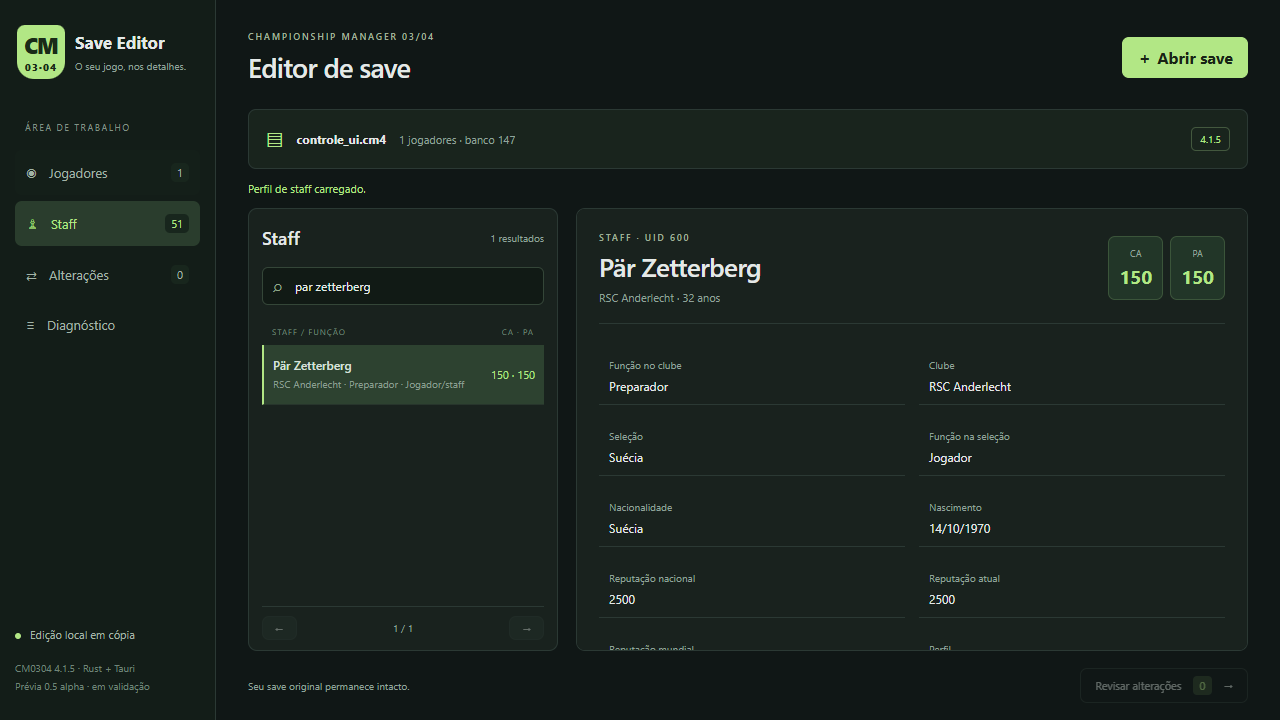
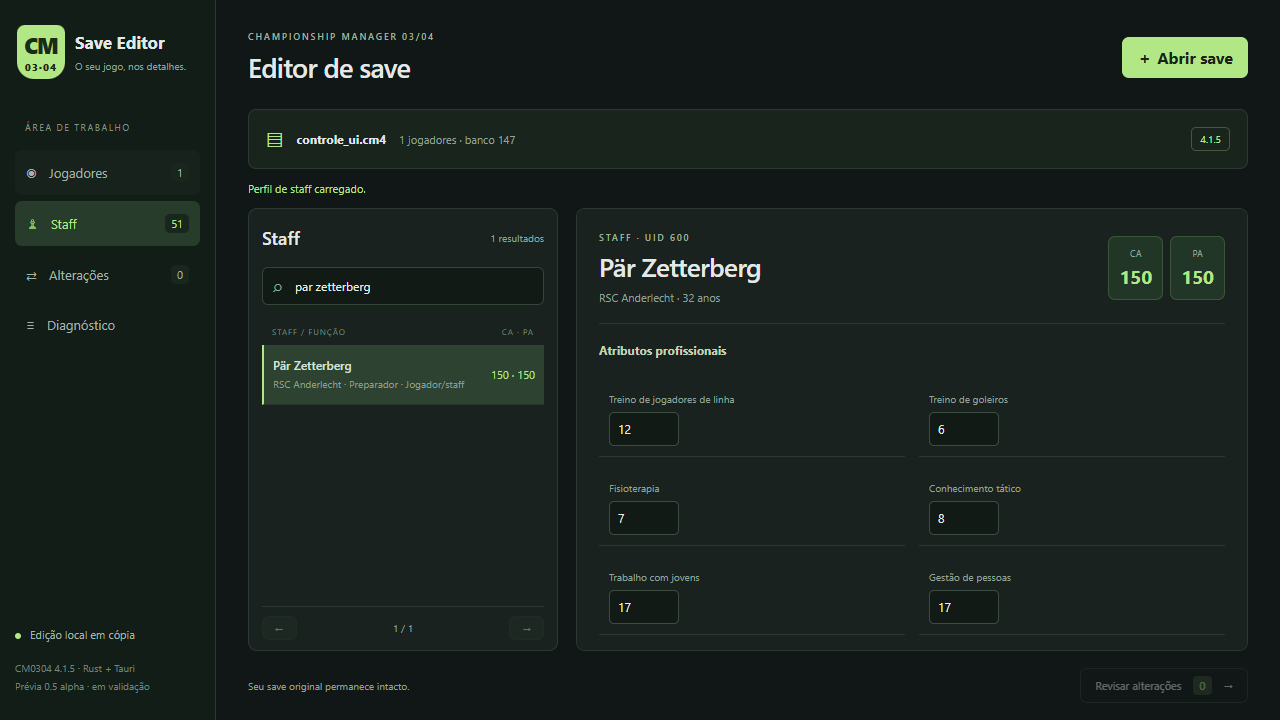
Integrate staff editing with desktop review and history

diff --git a/apps/desktop/ui/main.ts b/apps/desktop/ui/main.ts
@@ -1,15 +1,15 @@
 interface Edit {uid:number;attribute:string;value:number;policy?:'preserveValues'|'preserveRelative'}
-interface Pending {edits:Edit[];healInjuries:number[];clearSuspensions:number[];undo:boolean;redo:boolean}
+interface Pending {edits:Edit[];staffEdits?:Edit[];healInjuries:number[];clearSuspensions:number[];undo:boolean;redo:boolean}
 interface Field {value:number;min:number;max:number;width:number;offset:number}
 interface Player {uid:number;name:string;firstName:string;surname:string;club:string|null;nation:string|null;currentAbility:number;potentialAbility:number;attributes:Record<string,number>;rawAttributes:Record<string,number>;fields:Record<string,Field>}
 interface ContractView {index:number;kind:number;kindLabel:string;entityType:number;entity:string|null;started:{year:number;day:number};monthly:boolean}
 interface Detail {player:Player;effective:Player;age:number|null;contracts:ContractView[];editable:string[];pending:Edit[];nations:string[];injuries:{name:string;recordedOn:{year:number;day:number}|null}[];healPending:boolean;suspensionCount:number;suspensionPending:boolean}
 interface Change {uid:number;name:string;attribute:string;before:number;after:number;rawBefore:number;rawAfter:number;derived:boolean;context:string|null;displayBefore:string|null;displayAfter:string|null}
-interface Report {changes:Change[];fieldChangedBytes:number;removedBytes:number;removals:{uid:number;name:string;kind:'injuries'|'suspensions';count:number;removedBytes:number}[];sourceSha256:string;copySha256:string}
+interface Report {staffChanges?:{uid:number;name?:string;attribute:string;before:number;after:number}[];changes:Change[];fieldChangedBytes:number;removedBytes:number;removals:{uid:number;name:string;kind:'injuries'|'suspensions';count:number;removedBytes:number}[];sourceSha256:string;copySha256:string}
 interface Page {total:number;rows:{uid:number;name:string;club:string|null;age:number|null;ca:number;pa:number}[]}
 interface Summary {name:string;path:string;players:number;staff:number;sha256:string}
 interface StaffProfile {uid:number;name:string;isPlayer:boolean;isHuman:boolean;team:string|null;clubJob:string;nationalTeam:string|null;nationalJob:string;nation:string|null;dateOfBirth:{year:number;day:number}|null;currentAbility:number;potentialAbility:number;reputation:number[];rawAttributes:Record<string,number>|null;attributes:Record<string,number>|null;personality:Record<string,number>|null}
-interface StaffDetail {profile:StaffProfile;age:number|null;pendingPlayerFields:number}
+interface StaffDetail {profile:StaffProfile;age:number|null;pendingPlayerFields:number;editable?:string[]}
 interface StaffPage {total:number;rows:{uid:number;name:string;team:string|null;role:string;nationalTeam:string|null;age:number|null;ca:number;pa:number;isPlayer:boolean}[]}
 declare global {interface Window {__TAURI__:{core:{invoke:<T>(command:string,args?:Record<string,unknown>)=>Promise<T>}}}}
 const $=<T extends HTMLElement=HTMLElement>(id:string)=>document.getElementById(id) as T;
@@ -47,8 +47,9 @@ function drafts():Edit[]{
 }
 function healingDraft():{uid:number;enabled:boolean}|null {const checkbox=$<HTMLInputElement>('remove-injuries');return detail&&checkbox&&checkbox.checked!==detail.healPending?{uid:detail.player.uid,enabled:checkbox.checked}:null;}
 function suspensionDraft():{uid:number;enabled:boolean}|null {const checkbox=$<HTMLInputElement>('remove-suspensions');return detail&&checkbox&&checkbox.checked!==detail.suspensionPending?{uid:detail.player.uid,enabled:checkbox.checked}:null;}
-function planCount(){return plan.edits.length+plan.healInjuries.length+plan.clearSuspensions.length;}
-function canLeave(){return (drafts().length===0&&!healingDraft()&&!suspensionDraft())||window.confirm('Descartar os campos ainda não adicionados à revisão?');}
+function staffDrafts():Edit[]{return staffDetail?Array.from(document.querySelectorAll<HTMLInputElement>('#staff-profile [data-staff-field]')).filter(el=>Number(el.value)!==Number(el.dataset.initial)).map(el=>({uid:staffDetail!.profile.uid,attribute:el.dataset.staffField!,value:Number(el.value)})):[];}
+function planCount(){return plan.edits.length+(plan.staffEdits?.length??0)+plan.healInjuries.length+plan.clearSuspensions.length;}
+function canLeave(){const clean=staffDrafts().length===0;const allowed=(clean&&drafts().length===0&&!healingDraft()&&!suspensionDraft())||window.confirm('Descartar os campos ainda não adicionados à revisão?');if(allowed&&!clean)for(const el of document.querySelectorAll<HTMLInputElement>('#staff-profile [data-staff-field]'))el.value=el.dataset.initial!;return allowed;}
 function view(name:string){for(const v of ['players','staff','changes','diagnostics']){$(`${v}-view`).hidden=v!==name;$(`nav-${v}`).classList.toggle('active',v===name);}}
 function syncPlan(){const count=planCount();$('pending-count').textContent=String(count);$('review-count').textContent=String(count);$<HTMLButtonElement>('review').disabled=busy||!count;$<HTMLButtonElement>('save-copy').disabled=busy||!count;$<HTMLButtonElement>('undo').disabled=busy||!plan.undo;$<HTMLButtonElement>('redo').disabled=busy||!plan.redo;$<HTMLButtonElement>('clear').disabled=busy||!count;$('footer-state').textContent=count?`${count} alteração(ões) preparada(s). A origem continua intacta.`:'Seu save original permanece intacto.';}
 function syncPages(){$<HTMLButtonElement>('previous').disabled=busy||page===0;$<HTMLButtonElement>('next').disabled=busy||(page+1)*50>=total;$('page-label').textContent=`${page+1} / ${Math.max(1,Math.ceil(total/50))}`;}
@@ -80,18 +81,20 @@ async function searchStaff(){
   $('staff-results').innerHTML=result.rows.map(p=>'<button class="player-row '+(staffDetail?.profile.uid===p.uid?'selected':'')+'" data-staff-uid="'+p.uid+'"><span><strong>'+escape(p.name)+'</strong><small>'+escape(p.team??p.nationalTeam??'Sem equipe')+' · '+escape(p.role)+(p.isPlayer?' · Jogador/staff':'')+'</small></span><span class="abilities">'+p.ca+' <span>·</span> '+p.pa+'</span></button>').join('')||'<p class="profile-meta">Nenhum membro do staff encontrado.</p>';
   syncStaffPages();
 }
-async function showStaff(uid:number){
+async function showStaff(uid:number,checkDraft=true){
+  if(checkDraft&&!canLeave())return;
   status('Carregando perfil de staff…');
   staffDetail=await invoke<StaffDetail>('staff_detail',{uid});
   const d=staffDetail,p=d.profile;
   const fact=(label:string,value:unknown)=>'<div><dt>'+escape(label)+'</dt><dd>'+escape(value??'—')+'</dd></div>';
   const birth=p.dateOfBirth&&d.age!==null?new Date(Date.UTC(p.dateOfBirth.year,0,1)+p.dateOfBirth.day*86400000).toLocaleDateString('pt-BR',{timeZone:'UTC'}):'—';
   const professional:[string,string][]=[['Treino de jogadores de linha','coachingOutfieldPlayers'],['Treino de goleiros','coachingGoalkeepers'],['Fisioterapia','physiotherapy'],['Conhecimento tático','tacticalKnowledge'],['Trabalho com jovens','workingWithYoungsters'],['Gestão de pessoas','manManagement'],['Avaliação de capacidade','judgingPlayerAbility'],['Avaliação de potencial','judgingPlayerPotential'],['Motivação','motivating'],['Disciplina','discipline'],['Determinação','determination']];
-  const ratings='<h3 class="tab-heading">Atributos profissionais</h3><dl class="staff-facts staff-ratings">'+professional.map(([label,key])=>fact(label,p.attributes?.[key])).join('')+fact('Adaptação',p.personality?.adaptability)+'</dl>';
-  $('staff-profile').innerHTML='<div class="profile-header"><div><div class="eyebrow">STAFF · UID '+p.uid+'</div><h2>'+escape(p.name)+'</h2><div class="profile-meta">'+escape(p.team??p.nationalTeam??'Sem equipe')+(d.age===null?'':' · '+d.age+' anos')+'</div></div><div class="profile-badges"><div class="ability-badge"><small>CA</small><strong>'+p.currentAbility+'</strong></div><div class="ability-badge"><small>PA</small><strong>'+p.potentialAbility+'</strong></div></div></div>'+ratings+'<dl class="staff-facts">'+fact('Função no clube',p.clubJob)+fact('Clube',p.team)+fact('Seleção',p.nationalTeam)+fact('Função na seleção',p.nationalJob)+fact('Nacionalidade',p.nation)+fact('Nascimento',birth)+fact('Reputação nacional',p.reputation[0])+fact('Reputação atual',p.reputation[1])+fact('Reputação mundial',p.reputation[2])+fact('Perfil',p.isHuman?'Treinador humano':p.isPlayer?'Jogador/staff':'Staff')+'</dl><p class="profile-meta">CA e PA pertencem à função de staff. A edição de staff ainda está em desenvolvimento.</p>'+(d.pendingPlayerFields?'<p class="profile-meta">Este jogador tem '+d.pendingPlayerFields+' campo(s) na revisão. Os dados compartilhados deste perfil refletem o plano.</p>':'')+(p.isPlayer?'<button type="button" id="staff-open-player">Abrir perfil de jogador →</button>':'')+'<details><summary>Atributos brutos de diagnóstico</summary><p>Bytes originais, anteriores à conversão dos atributos relativos.</p><pre>'+escape(JSON.stringify(p.rawAttributes,null,2))+'</pre></details>';
+  const ratings='<h3 class="tab-heading">Atributos profissionais</h3><dl class="staff-facts staff-ratings">'+professional.map(([label,key])=>d.editable?.includes(key)?'<div><dt><label for="staff-'+key+'">'+escape(label)+'</label></dt><dd><input id="staff-'+key+'" type="number" min="1" max="20" step="1" data-staff-field="'+key+'" data-initial="'+p.attributes?.[key]+'" value="'+p.attributes?.[key]+'"></dd></div>':fact(label,p.attributes?.[key])).join('')+fact('Adaptação',p.personality?.adaptability)+'</dl>'+(d.editable?.length?'<p class="profile-meta">Edição experimental: valide a cópia no jogo.</p><button id="staff-stage" type="button">Adicionar à revisão</button>':'');
+  $('staff-profile').innerHTML='<div class="profile-header"><div><div class="eyebrow">STAFF · UID '+p.uid+'</div><h2>'+escape(p.name)+'</h2><div class="profile-meta">'+escape(p.team??p.nationalTeam??'Sem equipe')+(d.age===null?'':' · '+d.age+' anos')+'</div></div><div class="profile-badges"><div class="ability-badge"><small>CA</small><strong>'+p.currentAbility+'</strong></div><div class="ability-badge"><small>PA</small><strong>'+p.potentialAbility+'</strong></div></div></div>'+ratings+'<dl class="staff-facts">'+fact('Função no clube',p.clubJob)+fact('Clube',p.team)+fact('Seleção',p.nationalTeam)+fact('Função na seleção',p.nationalJob)+fact('Nacionalidade',p.nation)+fact('Nascimento',birth)+fact('Reputação nacional',p.reputation[0])+fact('Reputação atual',p.reputation[1])+fact('Reputação mundial',p.reputation[2])+fact('Perfil',p.isHuman?'Treinador humano':p.isPlayer?'Jogador/staff':'Staff')+'</dl><p class="profile-meta">CA e PA pertencem à função de staff. A edição de CA/PA e dos demais dados ainda está em desenvolvimento.</p>'+(d.pendingPlayerFields?'<p class="profile-meta">Este jogador tem '+d.pendingPlayerFields+' campo(s) na revisão. Os dados compartilhados deste perfil refletem o plano.</p>':'')+(p.isPlayer?'<button type="button" id="staff-open-player">Abrir perfil de jogador →</button>':'')+'<details><summary>Atributos brutos de diagnóstico</summary><p>Bytes originais, anteriores à conversão dos atributos relativos.</p><pre>'+escape(JSON.stringify(p.rawAttributes,null,2))+'</pre></details>';
   $('staff-profile').scrollTop=0;
   for(const row of document.querySelectorAll<HTMLElement>('[data-staff-uid]'))row.classList.toggle('selected',Number(row.dataset.staffUid)===uid);
-  if(p.isPlayer)$('staff-open-player').onclick=()=>void task(async()=>{view('players');page=0;$<HTMLInputElement>('search').value=p.name;await search();await showPlayer(uid);});
+  if(d.editable?.length)$('staff-stage').onclick=()=>void task(async()=>{const edits=staffDrafts();for(const el of document.querySelectorAll<HTMLInputElement>('#staff-profile [data-staff-field]'))if(Number(el.value)!==Number(el.dataset.initial)&&!el.reportValidity())return;if(!edits.length)return;status('Validando atributos de staff…');plan=await invoke<Pending>('stage_staff_edits',{edits});await showStaff(uid,false);status('Atributos de staff adicionados à revisão.','success');});
+  if(p.isPlayer)$('staff-open-player').onclick=()=>void task(async()=>{if(!canLeave())return;view('players');page=0;$<HTMLInputElement>('search').value=p.name;await search();await showPlayer(uid);});
   status('Perfil de staff carregado.','success');
 }
 function renderProfile(){
@@ -165,21 +168,22 @@ function renderProfile(){
 }
 async function showPlayer(uid:number){if(!canLeave())return;detail=await invoke<Detail>('player_detail',{uid});renderProfile();for(const row of document.querySelectorAll<HTMLElement>('.player-row'))row.classList.toggle('selected',Number(row.dataset.uid)===uid);}
 async function open(){if(!canLeave())return;if(planCount()&&!window.confirm('Abrir outro save e descartar as alterações pendentes?'))return;await task(async()=>{status('Selecione o save. A leitura pode levar alguns segundos…');const data=await invoke<Summary|null>('open_save');if(!data){status('Abertura cancelada.');return;}summary=data;detail=null;resetStaff();plan={edits:[],healInjuries:[],clearSuspensions:[],undo:false,redo:false};page=0;$<HTMLInputElement>('search').value='';$('file-name').textContent=data.name;$('file-info').textContent=`${data.players.toLocaleString('pt-BR')} jogadores · banco 147`;$('file-name').title=data.path;$('player-count').textContent=data.players.toLocaleString('pt-BR');$('diagnostics').textContent=JSON.stringify(data,null,2);$('empty').hidden=true;$('workspace').hidden=false;$('profile').innerHTML='<div class="profile-placeholder"><h2>Escolha um jogador</h2><p>Use a busca para encontrar um nome ou elenco.</p></div>';view('players');await search();status('Save carregado. Selecione um jogador para começar.','success');});}
+function staffFieldLabel(key:string):string {const labels:Record<string,string>={coachingOutfieldPlayers:'Treino de jogadores de linha',coachingGoalkeepers:'Treino de goleiros',physiotherapy:'Fisioterapia',tacticalKnowledge:'Conhecimento tático',workingWithYoungsters:'Trabalho com jovens',manManagement:'Gestão de pessoas',judgingPlayerAbility:'Avaliação de capacidade',judgingPlayerPotential:'Avaliação de potencial',motivating:'Motivação',discipline:'Disciplina',determination:'Determinação'};return labels[key]??key;}
 function renderChanges(report:Report):string {
   const seen=new Set<string>();return report.changes.filter(c=>{
     if(c.attribute==='birth.day'||c.attribute==='birth.year'||/^contract\.\d+\.expires\.(day|year)$/.test(c.attribute)){
       const key=c.uid+':'+c.attribute.replace(/\.(day|year)$/,'');if(seen.has(key))return false;seen.add(key);
     }return true;
-  }).map(c=>'<div class="change-item"><strong>'+escape(c.name)+'</strong><span>'+escape((c.attribute.startsWith('birth.')?'Nascimento':fieldLabel(c.attribute))+(c.derived?' (efeito indireto)':''))+(c.context?'<small class="change-context">'+escape(c.context)+'</small>':'')+'</span><b>'+escape(c.displayBefore??c.before)+' → '+escape(c.displayAfter??c.after)+'</b></div>').join('')+report.removals.map(r=>'<div class="change-item"><strong>'+escape(r.name)+'</strong><span>'+ (r.kind==='suspensions'?'Remover suspensões registradas':'Remover lesões registradas')+'</span><b>'+r.count+' → 0</b></div>').join('');
+  }).map(c=>'<div class="change-item"><strong>'+escape(c.name)+'</strong><span>'+escape((c.attribute.startsWith('birth.')?'Nascimento':fieldLabel(c.attribute))+(c.derived?' (efeito indireto)':''))+(c.context?'<small class="change-context">'+escape(c.context)+'</small>':'')+'</span><b>'+escape(c.displayBefore??c.before)+' → '+escape(c.displayAfter??c.after)+'</b></div>').join('')+(report.staffChanges??[]).map(c=>'<div class="change-item"><strong>'+escape(c.name??('Staff · UID '+c.uid))+'</strong><span>'+escape(staffFieldLabel(c.attribute))+'</span><b>'+c.before+' → '+c.after+'</b></div>').join('')+report.removals.map(r=>'<div class="change-item"><strong>'+escape(r.name)+'</strong><span>'+ (r.kind==='suspensions'?'Remover suspensões registradas':'Remover lesões registradas')+'</span><b>'+r.count+' → 0</b></div>').join('');
 }
-function reportSummary(report:Report){const fields=report.changes.length,records=report.removals.reduce((sum,r)=>sum+r.count,0);return report.removals.length?`${fields} campo(s) editado(s) e ${records} registro(s) removido(s).`:`${fields} campo(s) e ${report.fieldChangedBytes} bytes alterados.`;}
+function reportSummary(report:Report){const fields=report.changes.length+(report.staffChanges?.length??0),records=report.removals.reduce((sum,r)=>sum+r.count,0);return report.removals.length?`${fields} campo(s) editado(s) e ${records} registro(s) removido(s).`:`${fields} campo(s) e ${report.fieldChangedBytes} bytes alterados.`;}
 async function review(){if(!summary||!canLeave())return;view('changes');await task(async()=>{plan=await invoke<Pending>('pending_edits');if(!planCount()){$('changes-list').textContent='Nenhuma alteração pendente.';return;}status('Validando o plano de edição…');const report=await invoke<Report>('preview_edits');$('changes-list').innerHTML=renderChanges(report);status('Plano válido: '+reportSummary(report),'success');});}
 $('open-save').onclick=()=>void open();$('empty-open').onclick=()=>void open();$('nav-players').onclick=()=>{if(summary&&canLeave())view('players');};$('nav-changes').onclick=()=>void review();$('review').onclick=()=>void review();$('nav-diagnostics').onclick=()=>{if(summary&&canLeave())view('diagnostics');};
 $('results').onclick=e=>{const row=(e.target as HTMLElement).closest<HTMLElement>('[data-uid]');if(row)void task(()=>showPlayer(Number(row.dataset.uid)));};
 $<HTMLInputElement>('search').oninput=()=>{clearTimeout(timer);timer=setTimeout(()=>{page=0;void search().catch(e=>status(String(e),'error'));},180);};
 $('previous').onclick=()=>{page--;void search().catch(e=>status(String(e),'error'));};$('next').onclick=()=>{page++;void search().catch(e=>status(String(e),'error'));};
-for(const action of ['undo','redo','clear'])$(action).onclick=()=>void task(async()=>{plan=await invoke<Pending>('history_action',{action});if(detail){detail=await invoke<Detail>('player_detail',{uid:detail.player.uid});renderProfile();}if(planCount()){const report=await invoke<Report>('preview_edits');$('changes-list').innerHTML=renderChanges(report);}else $('changes-list').textContent='Nenhuma alteração pendente.';status('Plano de alterações atualizado.');});
-$('save-copy').onclick=()=>void task(async()=>{status('Escolha um nome novo para a cópia. O original não será sobrescrito.');const result=await invoke<{path:string;report:Report}|null>('save_copy');if(!result){status('Gravação cancelada.');return;}$('saved-path').textContent=`Cópia validada e salva: ${result.path}`;status('Cópia salva e verificada: '+reportSummary(result.report),'success');});
+for(const action of ['undo','redo','clear'])$(action).onclick=()=>{if(!canLeave())return;void task(async()=>{plan=await invoke<Pending>('history_action',{action});if(detail){detail=await invoke<Detail>('player_detail',{uid:detail.player.uid});renderProfile();}if(planCount()){const report=await invoke<Report>('preview_edits');$('changes-list').innerHTML=renderChanges(report);}else $('changes-list').textContent='Nenhuma alteração pendente.';if(staffDetail)await showStaff(staffDetail.profile.uid,false);status('Plano de alterações atualizado.');});};
+$('save-copy').onclick=()=>{if(!canLeave())return;void task(async()=>{status('Escolha um nome novo para a cópia. O original não será sobrescrito.');const result=await invoke<{path:string;report:Report}|null>('save_copy');if(!result){status('Gravação cancelada.');return;}$('saved-path').textContent=`Cópia validada e salva: ${result.path}`;status('Cópia salva e verificada: '+reportSummary(result.report),'success');});};
 $('nav-staff').onclick=()=>{
   if(!summary||!canLeave())return;
   renderProfile();view('staff');
@@ -189,6 +193,6 @@ $('staff-results').onclick=e=>{const row=(e.target as HTMLElement).closest<HTMLE
 $<HTMLInputElement>('staff-search').oninput=()=>{clearTimeout(staffTimer);staffTimer=setTimeout(()=>{staffPage=0;void searchStaff().catch(e=>status(String(e),'error'));},180);};
 $('staff-previous').onclick=()=>{staffPage--;void searchStaff().catch(e=>status(String(e),'error'));};
 $('staff-next').onclick=()=>{staffPage++;void searchStaff().catch(e=>status(String(e),'error'));};
-window.onbeforeunload=e=>{if(planCount()||drafts().length||healingDraft()||suspensionDraft()){e.preventDefault();}};
+window.onbeforeunload=e=>{if(planCount()||staffDrafts().length||drafts().length||healingDraft()||suspensionDraft()){e.preventDefault();}};
 syncPlan();
 export {};

diff --git a/tools/check-staff-ui.playwright.js b/tools/check-staff-ui.playwright.js
@@ -18,6 +18,8 @@ async page => {
     const field = value => ({ value, min: 0, max: 2003, width: 2, offset: 0 });
     const player = { uid: 600, name: 'Pär Zetterberg', firstName: 'Pär', surname: 'Zetterberg', club: 'RSC Anderlecht', nation: 'Suécia', currentAbility: 140, potentialAbility: 150, attributes: {}, rawAttributes: {}, fields: { 'birth.year': field(1970), 'birth.day': field(286), nationality: field(0), passing: { ...field(15), min: 1, max: 20 } } };
     window.__testCalls = [];
+    let edits=[], undo=[], redo=[];
+    const pending=()=>({edits:[],staffEdits:edits,healInjuries:[],clearSuspensions:[],undo:undo.length>0,redo:redo.length>0});
     window.__TAURI__ = { core: { invoke: async (command, args = {}) => {
       window.__testCalls.push({ command, args });
       if (command === 'open_save') return { name: 'controle_ui.cm4', path: 'controle_ui.cm4', players: 1, staff: 51, sha256: 'controlled-fixture' };
@@ -26,7 +28,15 @@ async page => {
         const found = profiles.filter(p => key([p.uid, p.name, p.team, p.clubJob, p.nationalTeam, p.nationalJob].join(' ')).includes(key(args.query)));
         return { total: found.length, rows: found.slice(args.page * 50, args.page * 50 + 50).map(p => ({ uid: p.uid, name: p.name, team: p.team, role: p.clubJob, nationalTeam: p.nationalTeam, age: 43, ca: p.currentAbility, pa: p.potentialAbility, isPlayer: p.isPlayer })) };
       }
-      if (command === 'staff_detail') return { profile: profiles.find(p => p.uid === args.uid), age: args.uid === 600 ? 32 : 43, pendingPlayerFields: 0 };
+      if (command === 'staff_detail') {
+        const profile=structuredClone(profiles.find(p=>p.uid===args.uid));
+        for(const e of edits.filter(e=>e.uid===args.uid))profile.attributes[e.attribute]=e.value;
+        return {profile,age:args.uid===600?32:43,pendingPlayerFields:0,editable:Object.keys(profile.attributes)};
+      }
+      if(command==='stage_staff_edits'){undo.push(structuredClone(edits));redo=[];for(const e of args.edits){edits=edits.filter(x=>x.uid!==e.uid||x.attribute!==e.attribute);if(e.value!==profiles.find(p=>p.uid===e.uid).attributes[e.attribute])edits.push(e);}return pending();}
+      if(command==='pending_edits')return pending();
+      if(command==='history_action'){if(args.action==='undo'){redo.push(edits);edits=undo.pop();}else if(args.action==='redo'){undo.push(edits);edits=redo.pop();}else {undo.push(edits);edits=[];}return pending();}
+      if(command==='preview_edits')return {changes:[],staffChanges:edits.map(e=>({...e,before:profiles.find(p=>p.uid===e.uid).attributes[e.attribute],after:e.value})),removals:[],fieldChangedBytes:edits.length,removedBytes:0};
       if (command === 'player_detail') return { player, effective: player, age: 32, contracts: [], editable: ['passing'], pending: [], nations: ['Suécia'], injuries: [], healPending: false, suspensionCount: 0, suspensionPending: false };
       throw new Error('Unexpected IPC command: ' + command);
     } } };
@@ -49,8 +59,32 @@ async page => {
   await page.locator('#staff-results button').click();
   await page.locator('#staff-profile h2').filter({ hasText: 'Rui Águas' }).waitFor();
   assert((await page.locator('#staff-profile').innerText()).includes('Treinador adjunto'), 'Staff role must be visible');
-  assert(await page.locator('#staff-profile dt').filter({ hasText: 'Fisioterapia' }).locator('..').locator('dd').innerText() === '7', 'Staff ratings must show the converted value, not the raw byte');
-  assert(await page.locator('#staff-profile input').count() === 0, 'Unvalidated staff fields must not have editable inputs');
+  assert(await page.locator('#staff-physiotherapy').inputValue() === '7', 'Staff ratings must show the converted value, not the raw byte');
+  assert(await page.locator('#staff-profile input').count() === 11, 'Only the 11 professional fields may be editable');
+  await page.locator('#staff-coachingOutfieldPlayers').fill('20');
+  await page.locator('#staff-stage').click();
+  await page.locator('#status').filter({hasText:'Atributos de staff adicionados'}).waitFor();
+  assert(await page.locator('#pending-count').innerText()==='1','Staff edit must enable review and save');
+  await page.locator('#review').click();
+  await page.locator('#changes-list').filter({hasText:'12 → 20'}).waitFor();
+  assert((await page.locator('#changes-list').innerText()).includes('Treino de jogadores de linha'),'Review must label staff fields');
+  await page.locator('#undo').click();
+  await page.locator('#status').filter({hasText:'Plano de alterações atualizado'}).waitFor();
+  assert(await page.locator('#save-copy').isDisabled(),'Undo must remove the staff edit');
+  await page.locator('#redo').click();
+  await page.locator('#status').filter({hasText:'Plano de alterações atualizado'}).waitFor();
+  assert(await page.locator('#pending-count').innerText()==='1','Redo must restore the staff edit');
+  await page.locator('#clear').click();
+  await page.locator('#status').filter({hasText:'Plano de alterações atualizado'}).waitFor();
+  await page.locator('#nav-staff').click();
+  await page.locator('#staff-coachingOutfieldPlayers').fill('19');
+  page.once('dialog',dialog=>dialog.dismiss());
+  await page.locator('#nav-players').click();
+  assert(await page.locator('#staff-view').isVisible(),'Cancel must keep staff draft');
+  page.once('dialog',dialog=>dialog.accept());
+  await page.locator('#nav-players').click();
+  assert(await page.locator('#staff-coachingOutfieldPlayers').inputValue()==='12','Discard must reset staff draft');
+  await page.locator('#nav-staff').click();
   await page.locator('#staff-search').fill('fisioterapeuta');
   await page.locator('#staff-results button').filter({ hasText: 'Francisco Miranda' }).waitFor();
   await page.locator('#staff-search').fill('par zetterberg');
@@ -78,7 +112,7 @@ async page => {
   assert(await page.locator('#staff-search').inputValue() === '', 'Opening a save must reset staff query');
   assert(await page.locator('#staff-page-label').innerText() === '1 / 2', 'Opening a save must reset pagination');
   assert((await page.locator('#staff-profile').innerText()).includes('Escolha um membro do staff'), 'Opening a save must clear previous staff profile');
-  const result = { passed: true, checks: ['pagination', 'accentless search', 'role search', 'readonly staff', 'dual-role navigation', 'draft cancel/discard', 'save session reset'], frontendErrors: errors };
+  const result = { passed: true, checks: ['pagination', 'accentless search', 'role search', '11 staff controls', 'staff staging and review', 'staff undo/redo/clear', 'staff draft cancel/discard', 'dual-role navigation', 'player draft cancel/discard', 'save session reset'], frontendErrors: errors };
   await page.evaluate(value => { window.__staffUiResult = value; }, result);
   return result;
 }

diff --git a/apps/desktop/src-tauri/src/main.rs b/apps/desktop/src-tauri/src/main.rs
@@ -89,6 +89,7 @@ struct StaffDetail {
     profile: Staff,
     age: Option<u16>,
     pending_player_fields: usize,
+    editable: Vec<String>,
 }
 #[derive(Serialize)]
 #[serde(rename_all = "camelCase")]
@@ -109,6 +110,7 @@ struct Detail {
 #[serde(rename_all = "camelCase")]
 struct Pending {
     edits: Vec<Edit>,
+    staff_edits: Vec<cm0304_core::staff_editor::Edit>,
     heal_injuries: Vec<i32>,
     clear_suspensions: Vec<i32>,
     undo: bool,
@@ -117,6 +119,7 @@ struct Pending {
 fn pending(s: &Session) -> Pending {
     Pending {
         edits: s.plan.edits.clone(),
+        staff_edits: s.plan.staff_edits.clone(),
         heal_injuries: s.plan.heal_injuries.iter().copied().collect(),
         clear_suspensions: s.plan.clear_suspensions.iter().copied().collect(),
         undo: !s.undo.is_empty(),
@@ -294,7 +297,7 @@ async fn staff_detail(uid: i32, state: State<'_, Shared>) -> Result<StaffDetail>
         .ok_or("Staff não encontrado")?;
     let plan = state.lock().map_err(|e| e.to_string())?.plan.clone();
     let pending_player_fields = plan.edits.iter().filter(|e| e.uid == uid).count();
-    if pending_player_fields > 0 {
+    if pending_player_fields > 0 || plan.staff_edits.iter().any(|e| e.uid == uid) {
         let bytes = data.bytes.clone();
         profile = tauri::async_runtime::spawn_blocking(move || -> Result<Staff> {
             let (output, _) = transaction::apply(&bytes, &plan)?;
@@ -312,10 +315,71 @@ async fn staff_detail(uid: i32, state: State<'_, Shared>) -> Result<StaffDetail>
         .as_ref()
         .and_then(|date| date.age_on(&data.game_date));
     Ok(StaffDetail {
+        editable: if profile.attributes.is_some() {
+            cm0304_core::staff_editor::EDITABLE
+                .iter()
+                .map(|k| k.to_string())
+                .collect()
+        } else {
+            Vec::new()
+        },
         profile,
         age,
         pending_player_fields,
     })
+}
+#[tauri::command]
+async fn stage_staff_edits(
+    edits: Vec<cm0304_core::staff_editor::Edit>,
+    state: State<'_, Shared>,
+) -> Result<Pending> {
+    let data = loaded(&state)?;
+    let previous = state.lock().map_err(|e| e.to_string())?.plan.clone();
+    let mut next = previous.clone();
+    let mut seen = std::collections::BTreeSet::new();
+    for edit in edits {
+        if !seen.insert((edit.uid, edit.attribute.clone())) {
+            return Err("Campo de staff repetido na mesma operação".into());
+        }
+        if !cm0304_core::staff_editor::EDITABLE.contains(&edit.attribute.as_str())
+            || !(1..=20).contains(&edit.value)
+        {
+            return Err("Campo ou valor de staff inválido".into());
+        }
+        let profile = data
+            .staff
+            .iter()
+            .find(|p| p.uid == edit.uid)
+            .ok_or("Staff não encontrado")?;
+        let original = profile
+            .attributes
+            .as_ref()
+            .and_then(|a| a.get(&edit.attribute))
+            .ok_or("Staff sem atributo disponível")?;
+        next.staff_edits
+            .retain(|e| e.uid != edit.uid || e.attribute != edit.attribute);
+        if edit.value != *original {
+            next.staff_edits.push(edit);
+        }
+    }
+    next.staff_edits
+        .sort_by(|a, b| (a.uid, &a.attribute).cmp(&(b.uid, &b.attribute)));
+    if !next.is_empty() {
+        let bytes = data.bytes.clone();
+        let plan = next.clone();
+        tauri::async_runtime::spawn_blocking(move || transaction::apply(&bytes, &plan).map(|_| ()))
+            .await
+            .map_err(|e| e.to_string())??;
+    }
+    let mut s = state.lock().map_err(|e| e.to_string())?;
+    if s.plan != previous || !s.loaded.as_ref().is_some_and(|p| Arc::ptr_eq(p, &data)) {
+        return Err("A sessão mudou durante a validação; tente novamente".into());
+    }
+    if s.plan != next {
+        record(&mut s);
+        s.plan = next;
+    }
+    Ok(pending(&s))
 }
 #[tauri::command]
 fn search_players(query: String, page: usize, state: State<Shared>) -> Result<Page> {
@@ -547,6 +611,7 @@ fn main() {
             staff_detail,
             player_detail,
             stage_edits,
+            stage_staff_edits,
             pending_edits,
             history_action,
             preview_edits,

diff --git a/crates/cm0304-core/src/staff_editor.rs b/crates/cm0304-core/src/staff_editor.rs
@@ -14,6 +14,7 @@ pub struct Edit {
 #[serde(rename_all = "camelCase")]
 pub struct Change {
     pub uid: i32,
+    pub name: String,
     pub attribute: String,
     pub before: i8,
     pub after: i8,
@@ -90,6 +91,7 @@ pub fn apply(input: &[u8], edits: &[Edit]) -> Result<(Vec<u8>, Vec<Change>)> {
         if raw_after != raw_before {
             changes.push(Change {
                 uid: edit.uid,
+                name: profile.name.clone(),
                 attribute: edit.attribute.clone(),
                 before,
                 after: edit.value,

diff --git a/reports/v0.6-staff-editing.md b/reports/v0.6-staff-editing.md
@@ -12,7 +12,9 @@ O arquivo `v06-staff-conversion-observed.json` contém 24 observações registra
 
 `staff_editor::apply` permite os oito atributos relativos e três diretos: disciplina, determinação e trabalho com jovens. Resolve o UID no snapshot, recusa referências compartilhadas e campos repetidos ou não suportados, codifica o alvo exato e relê o resultado. Não altera CA, PA, funções, contrato ou personalidade. O relatório registra valores convertidos e brutos, além do offset de origem.
 
-`Transaction.staffEdits` combina essa edição com alterações de jogadores e remoções estruturais. As escritas fixas precedem as remoções; os offsets do relatório referem-se ao arquivo de origem. A persistência usa o mesmo temporário validado e destino exclusivo das demais transações. Ainda não existe comando de preparação nem formulário de escrita de staff no Tauri.
+`Transaction.staffEdits` combina essa edição com alterações de jogadores e remoções estruturais. As escritas fixas precedem as remoções; os offsets do relatório referem-se ao arquivo de origem. A persistência usa o mesmo temporário validado e destino exclusivo das demais transações.
+
+O Tauri agora expõe `stage_staff_edits`: substitui intenções por UID/campo, remove a intenção quando o usuário retorna ao valor da origem, valida a transação completa e recusa aplicar o resultado caso a sessão tenha mudado durante a validação. O perfil apresenta 11 entradas numéricas e botão de preparação. A revisão e as contagens incluem staff; desfazer/refazer/limpar e a gravação usam o plano compartilhado. Rascunhos de staff exigem confirmação de descarte ao navegar. CA/PA e personalidade continuam sem controles de edição de staff.
 
 ## Verificação automatizada
 
@@ -24,4 +26,6 @@ O arquivo `v06-staff-conversion-observed.json` contém 24 observações registra
 
[1 lines of base64/hex data omitted]
 
-O plano `v06-staff-edit-plan.json` prepara alvos de Rui, Francisco, Fábio e Pär para uma cópia experimental. Confirmar os valores no jogo, avançar sete dias, regravar e recarregar antes de declarar a escrita suportada. Atributos que já estão no alvo podem resultar em nenhuma mudança de byte. O teste de navegador do perfil convertido também precisa ser repetido; o resultado anterior cobre a consulta antes desta ampliação.
+O plano `v06-staff-edit-plan.json` prepara alvos de Rui, Francisco, Fábio e Pär para uma cópia experimental. Confirmar os valores no jogo, avançar sete dias, regravar e recarregar antes de declarar a escrita suportada. Atributos que já estão no alvo podem resultar em nenhuma mudança de byte.
+
+O teste de navegador foi ampliado e repetido: dez verificações passaram, sem erros JavaScript, cobrindo paginação, pesquisas, os 11 controles, preparação/revisão, histórico, descarte de staff, dupla função, descarte de jogador e limpeza da sessão. Respostas IPC e perfis são controlados; `v06-staff-ui-result.json` e `v06-staff-ui.png` documentam esse teste. O build de frontend e Clippy do workspace passaram. Conferência de IPC nativo, gravação pela interface e ciclo no jogo continuam pendentes. Prévia e navegador isolado foram encerrados.

diff --git a/docs/DEVELOPMENT.md b/docs/DEVELOPMENT.md
@@ -70,7 +70,7 @@ cargo run --offline -p cm0304-cli -- staff "origem.cm4" "uid:4950"
 
 Leitura separada do modelo de jogadores, com vínculos de clube/seleção, atributos brutos e convertidos. Oito atributos profissionais usam a CA própria de staff; os demais são diretos. A conversão possui 24 observações de controle em `reports/v06-staff-conversion-observed.json`.
 
-A escrita experimental no núcleo aceita `staffEdits` em `apply-plan`, com UID, `attribute` e `value` de 1 a 20. Os 11 campos permitidos estão em `staff_editor::EDITABLE`; CA/PA e personalidade ainda não têm escrita de staff. O plano de exemplo está em `reports/v06-staff-edit-plan.json`. O relatório separa `staffChanges` das alterações de jogador e mantém offsets da origem, antes de remoções estruturais. Campos desconhecidos, repetidos, referências compartilhadas e alvos não representáveis são recusados. A interface ainda não permite preparar essas edições. A escrita permanece experimental até passar pelo ciclo de carregamento, conferência, evolução e recarga no jogo.
+A escrita experimental no núcleo aceita `staffEdits` em `apply-plan`, com UID, `attribute` e `value` de 1 a 20. Os 11 campos permitidos estão em `staff_editor::EDITABLE`; CA/PA e personalidade ainda não têm escrita de staff. O plano de exemplo está em `reports/v06-staff-edit-plan.json`. O relatório separa `staffChanges` das alterações de jogador e mantém offsets da origem, antes de remoções estruturais. Campos desconhecidos, repetidos, referências compartilhadas e alvos não representáveis são recusados. A interface prepara essas edições por `stage_staff_edits`, com revisão e histórico compartilhados. A escrita permanece experimental até passar pelo ciclo de carregamento, conferência, evolução e recarga no jogo.
 
 O frontend de consulta também pode ser verificado em navegador isolado com IPC controlado; comandos e limites da prova em `reports/v0.6-staff-ui.md`. Isso não substitui a conferência no aplicativo Tauri com save real.
 

diff --git a/ROADMAP.md b/ROADMAP.md
@@ -38,7 +38,7 @@ Essa é a base histórica em JavaScript. A migração e a primeira interface já
 - [x] **v0.3:** aplicativo Tauri com abertura, busca paginada, perfil, revisão, desfazer/refazer e salvar cópia. Fluxo completo executado na interface e cópia carregada no jogo.
 - [x] **v0.4:** editor ampliado de jogadores, políticas de CA, abas, idade e busca sem acentos. Fluxo Tauri, posições/pés, goleiro e jogador/staff conferidos; cópias avançaram sete dias, foram regravadas e recarregadas no jogo.
 - [ ] **v0.5:** estado e contratos existentes em prévia; remoção de lesões e suspensões integrada às transações. Transação mista Tauri de lesão/moral conferida no jogo; primeiros casos de cura e suspensão europeia passaram sete dias, regravação e recarga. Fluxo Tauri de suspensões testado até gravação/releitura, incluindo desfazer/refazer. Faltam conferir essa cópia no jogo, outras variantes e a matriz de contratos/valores.
-- [ ] **v0.6:** consulta de staff e conversão implementadas; escrita experimental de 11 atributos no núcleo e na transação, com testes nas duas amostras. Faltam edição pela interface, ciclo no jogo, demais campos de staff e gestão de clubes. Evidências em `reports/v0.6-staff-editing.md`.
+- [ ] **v0.6:** consulta, conversão e escrita experimental de 11 atributos de staff integradas ao núcleo, à transação e à interface de revisão/histórico. Testes do núcleo nas duas amostras e dez verificações de frontend com IPC controlado aprovados. Faltam conferir o fluxo nativo e o ciclo no jogo, demais campos de staff e gestão de clubes. Evidências em `reports/v0.6-staff-editing.md`.
 - [ ] **v0.7–v1.0:** ainda não concluídas.
 
 Evidências: `reports/v0.2-v0.3-validation.md` e `reports/v0.4-validation.md`. As prévias são marcos de desenvolvimento, não uma declaração de estabilidade da v1.0.

diff --git a/README.md b/README.md
@@ -12,7 +12,7 @@ A prévia **0.5.0-alpha.1** acrescenta estado, valores e contratos existentes. L
 
 A consulta de staff foi integrada ao código do Tauri, com busca, paginação, funções e navegação jogador/staff. O frontend passou testes com respostas controladas; execução nativa com save real e edição de staff continuam pendentes. Veja [validação da consulta de staff](reports/v0.6-staff-ui.md).
 
-O núcleo também oferece conversão de atributos profissionais e escrita experimental de 11 atributos de staff pelo plano CLI. Os testes preservam os dados de jogador em pessoas com dupla função. A edição pela interface e o ciclo da cópia no jogo ainda estão pendentes; detalhes em [escrita de staff](reports/v0.6-staff-editing.md).
+O núcleo também oferece conversão de atributos profissionais e escrita experimental de 11 atributos de staff pelo plano CLI e pela interface, com revisão e desfazer/refazer. Os testes preservam os dados de jogador em pessoas com dupla função. Dez verificações de frontend passaram com IPC controlado; execução nativa desse fluxo e ciclo da cópia no jogo ainda estão pendentes. Detalhes em [escrita de staff](reports/v0.6-staff-editing.md).
 
 ```powershell
 npm install

diff --git a/reports/v0.6-staff-ui.md b/reports/v0.6-staff-ui.md
@@ -1,5 +1,7 @@
 # Consulta de staff no Tauri — implementação em validação
 
+**Atualização de 19/11/2026:** este texto registra o checkpoint inicial de consulta. O código atual acrescenta conversão e edição experimental de 11 atributos, preparação, revisão e histórico de staff. O teste foi ampliado para dez verificações aprovadas; o JSON e a imagem referenciados abaixo agora correspondem a essa nova execução com dados controlados. Estado atual e limites em `v0.6-staff-editing.md`. As observações de bloqueio do Windows abaixo são históricas e não descrevem uma inspeção nesta etapa.
+
 Este checkpoint acrescenta uma área de consulta. A v0.5 permanece aberta; edição de staff, conversão dos atributos e conclusão da v0.6 continuam pendentes.
 
 ## Código integrado
